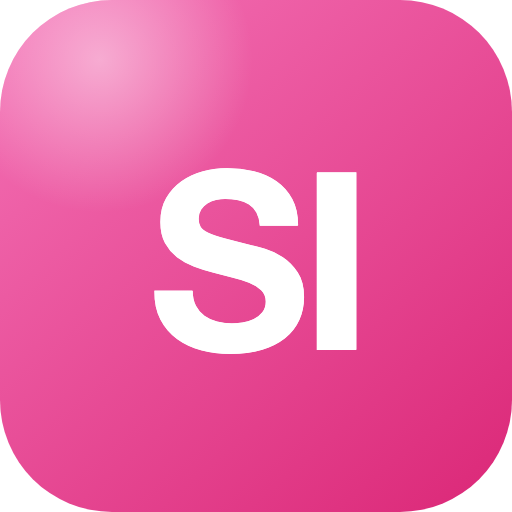
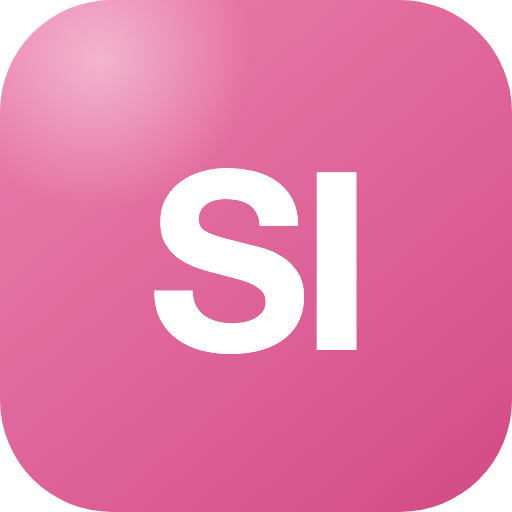
Soften the palette to a more pastel blush pink
Ease the decorative pinks (glows, gradient bars, borders, card tints) toward a
softer blush and gently warm the interactive rose, while keeping text and
button contrast readable. Regenerate the share card and favicon to match.

diff --git a/src/app/globals.css b/src/app/globals.css
@@ -4,15 +4,15 @@
   /* Soft off-white and baby pink theme.
      Note: on a light background, emphasis reads DARKER, so primary-glow is a
      deeper rose than primary (the opposite of a dark theme). */
-  --background: #fff7fb;       /* off-white with a whisper of pink */
-  --background-alt: #fde9f1;   /* soft baby pink: cards and alternating sections */
-  --foreground: #3f1d2e;       /* deep plum, warm and very readable */
-  --muted: #8a5a6e;            /* muted mauve for secondary text */
-  --primary: #db2777;          /* rose: links, buttons, icons */
-  --primary-glow: #9d174d;     /* deeper rose for hover and emphasis */
-  --border: #f6d3e3;           /* soft pink border */
-  --accent: #f472b6;           /* baby pink for decorative gradients */
-  --accent-glow: #f9a8d4;      /* lightest baby pink for glows */
+  --background: #fff8fb;       /* off-white with a whisper of pink */
+  --background-alt: #fdeef5;   /* soft blush: cards and alternating sections */
+  --foreground: #44233a;       /* deep plum, warm and very readable */
+  --muted: #8a5a6e;            /* muted mauve for secondary text (kept readable) */
+  --primary: #d24b85;          /* softer rose: links, buttons, icons */
+  --primary-glow: #9d2f5e;     /* deeper rose for hover and emphasis */
+  --border: #f7dce9;           /* gentle blush border */
+  --accent: #f6aed0;           /* pastel pink for decorative gradients */
+  --accent-glow: #fbd0e8;      /* lightest blush for glows */
 }
 
 @theme inline {